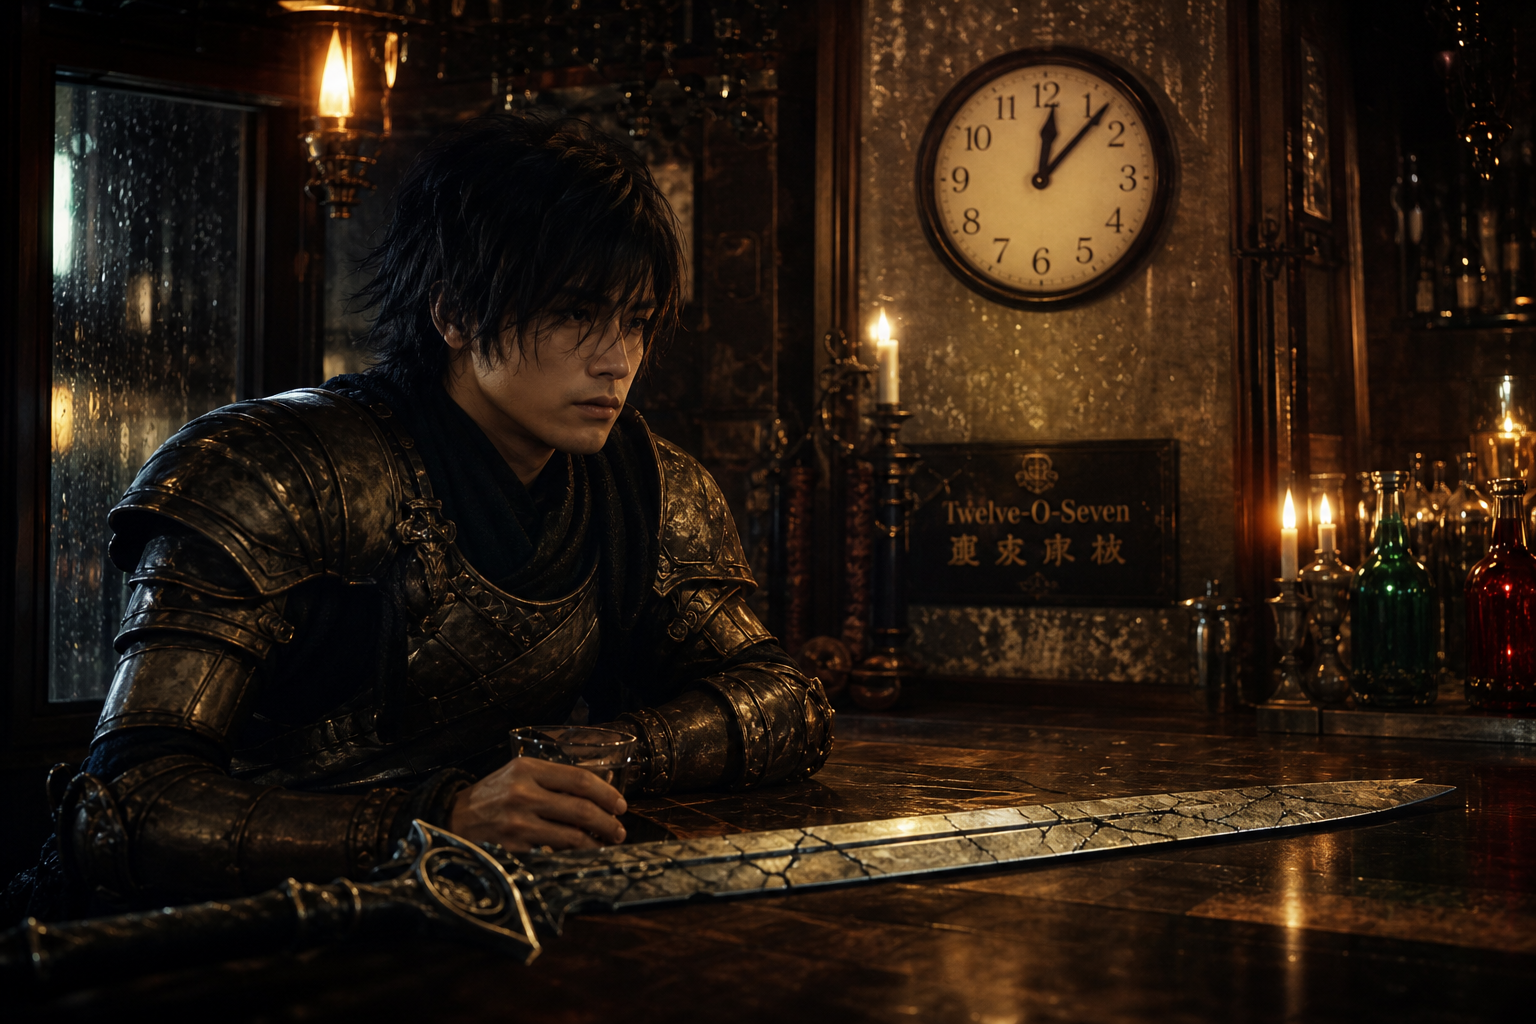
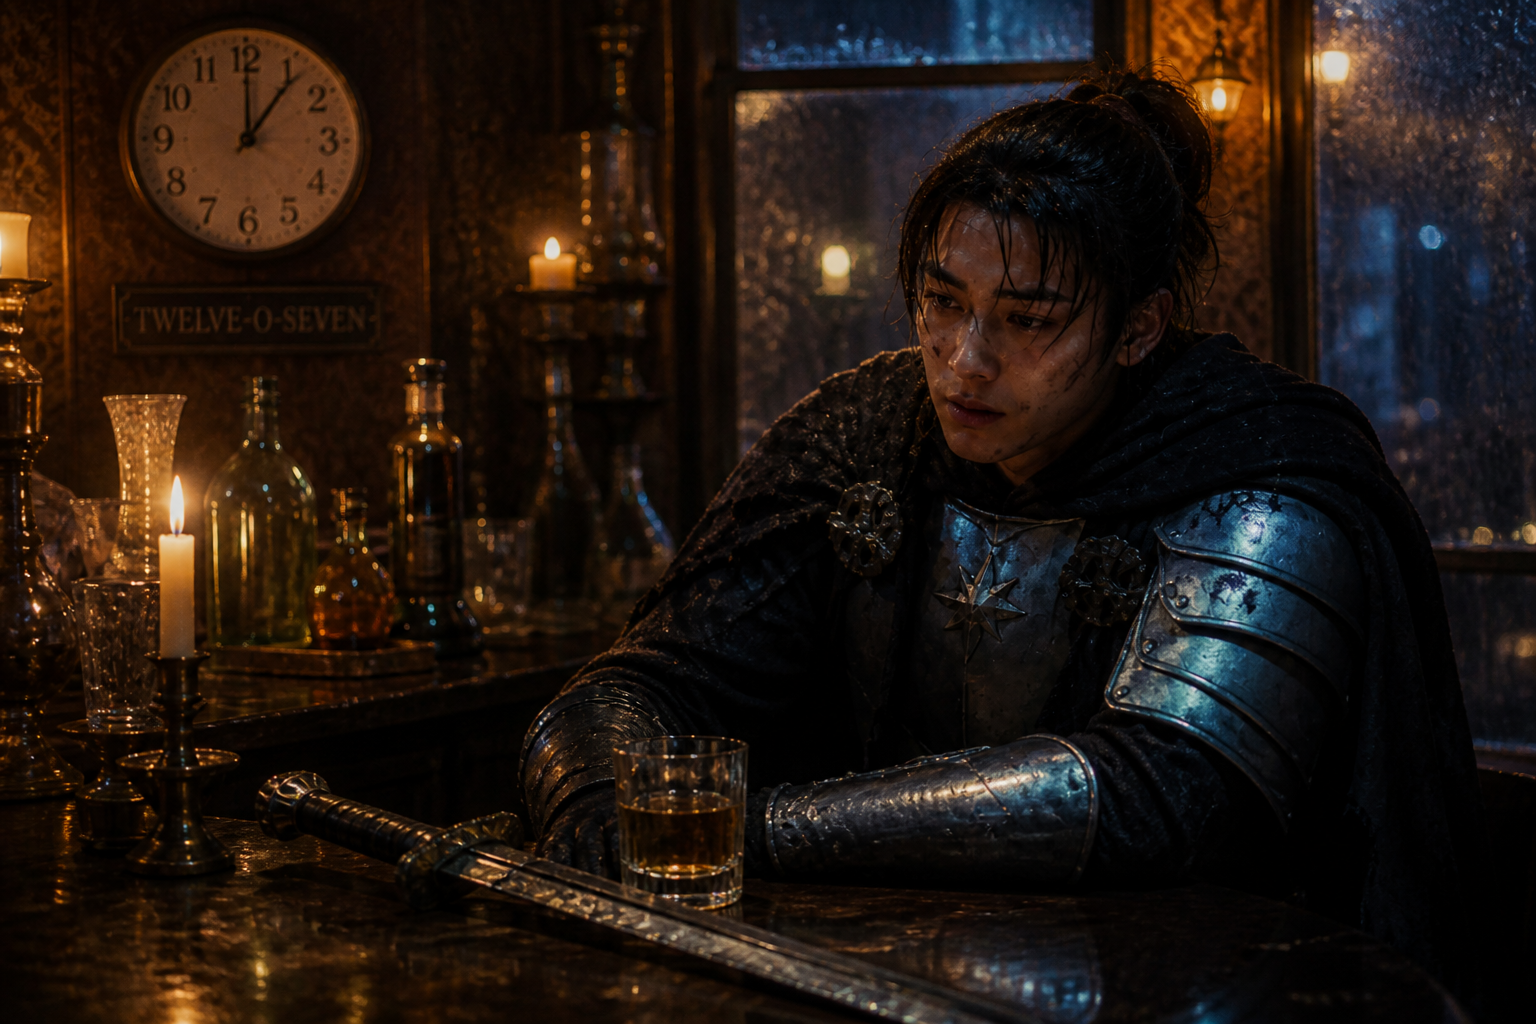
EP05: recreate scene 03 bar and extend dragon fight sequence (scenes 06-09)
- Recreate scene_03 bar with character lock consistency
- Add charge, face-off, fire clash, sword break, defeat v2
- Update pack and CapCut montage order for Track 02 龍の影

diff --git a/bar1207/ep05_20sec_video_prompt_split.md b/bar1207/ep05_20sec_video_prompt_split.md
@@ -104,4 +104,21 @@ NEGATIVE: bartender lecture, cheering, anime glow, armor off, face morph.
 
 ---
 
+## Extended Dragon Fight · Still Montage (Track 02 龍の影)
+
+*Use when song 02 plays · ~3:40 · crossfade or slow Ken Burns*
+
+| Order | File | Beat |
+|-------|------|------|
+| 1 | `ep05_scene_06_dragon_fight_charge.png` | Hero runs · sword raised |
+| 2 | `ep05_scene_09_dragon_faceoff.png` | Eye to eye · last stand |
+| 3 | `ep05_scene_07_dragon_fire_clash.png` | Dragon breath · block |
+| 4 | `ep05_scene_08_sword_breaks_on_dragon.png` | Blade shatters |
+| 5 | `ep05_scene_01_dragon_battle_v2.png` | Kneeling · ash · defeat |
+| 6 | `ep05_scene_02_no_hope_rain.png` | Cut to rain · no hope |
+
+**Timing guide:** ~40s per still or match verse/chorus sections · no victory shots · end on defeat
+
+---
+
 *Bar Twelve-O-Seven · EP05*
